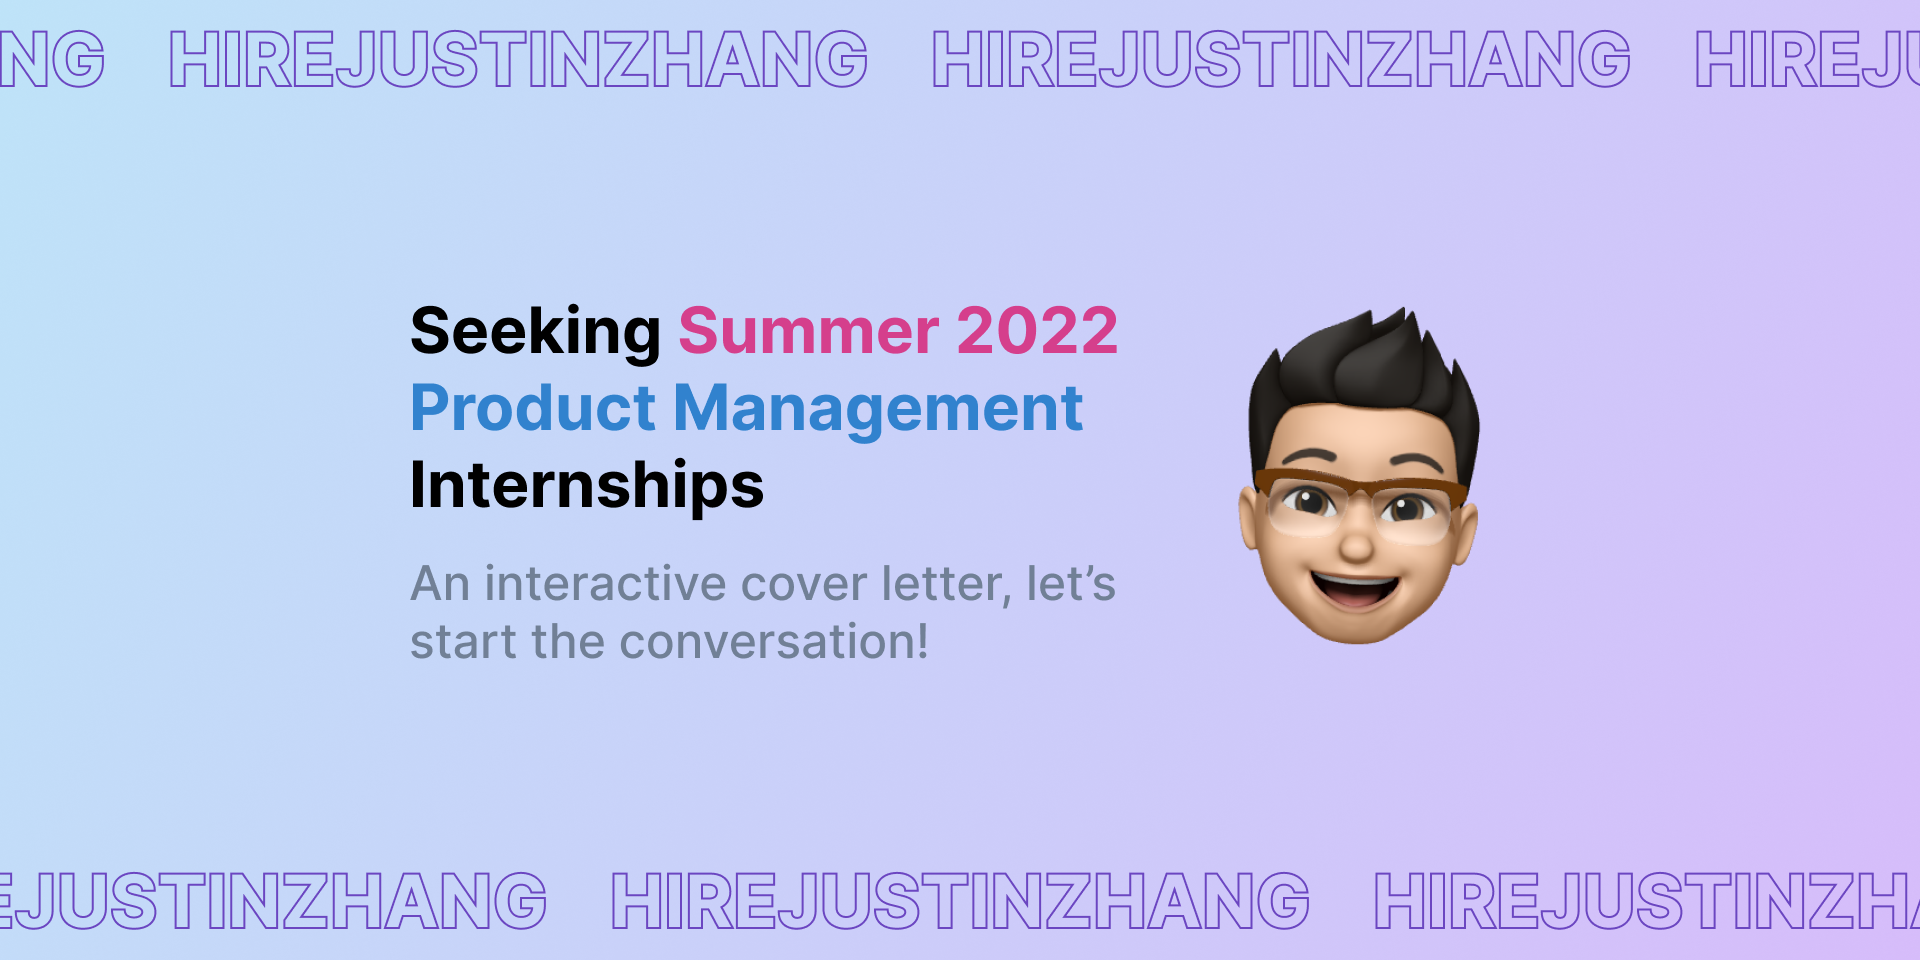
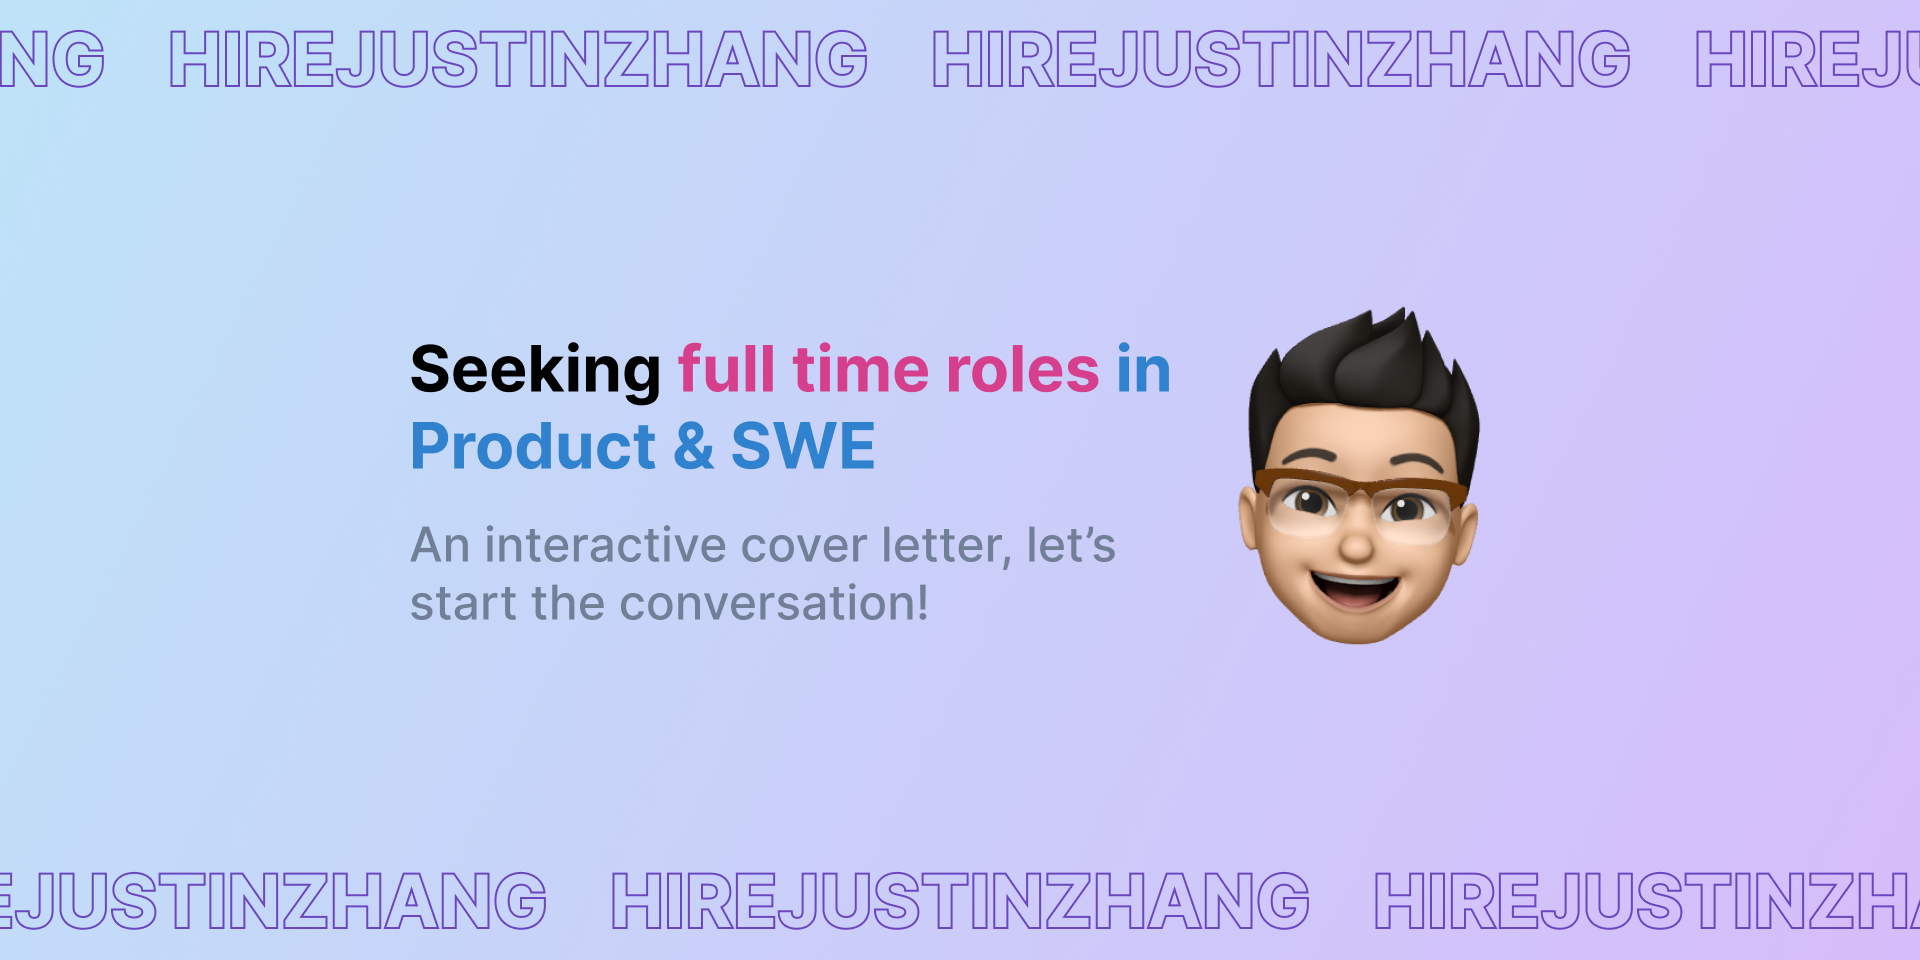
Updating SEO

Changed region(s): [[0.1875, 0.3125, 0.625, 0.6875]]

diff --git a/src/pages/_document.tsx b/src/pages/_document.tsx
@@ -53,25 +53,25 @@ class MyDocument extends Document {
             content="An interactive cover letter to highlight who I am beyond the resume. Currently a Computer Science and Business student seeking summer 2022 Product Management internships."
           />
 
-          <meta itemProp="name" content="Hire Justin Zhang The Intern" />
+          <meta itemProp="name" content="Hire Justin Zhang" />
           <meta
             itemProp="description"
-            content="I'm a 4th year Computer Science and Business student seeking Product Management internships for Summer 2022"
+            content="I'm a 5th year Computer Science and Business student seeking full time roles in Product & Software Engineering"
           />
           <meta itemProp="image" content={PREVIEW_IMAGE} />
 
           <meta name="twitter:card" content="summary_large_image" />
           <meta name="twitter:site" content="@justinnzhang" />
-          <meta name="twitter:title" content="Hire Justin Zhang The Intern" />
+          <meta name="twitter:title" content="Hire Justin Zhang" />
           <meta
             name="twitter:description"
-            content="An interactive cover letter to highlight who I am beyond the resume. Currently a Computer Science and Business student seeking summer 2022 Product Management internships."
+            content="An interactive cover letter to highlight who I am beyond the resume. Currently a Computer Science and Business student seeking full time roles in Product & Software Engineering."
           />
           <meta name="twitter:creator" content="@justinnzhang" />
           <meta name="twitter:image" content={PREVIEW_IMAGE} />
           <meta
             name="twitter:image:alt"
-            content="Blue to purple gradient with the text: Seeking Summer 2022 Product Management Internships, An interactive cover letter, let’s start the conversation! Followed by a memoji representation of Justin Zhang's face"
+            content="Blue to purple gradient with the text: Seeking full time roles in Product & Software Engineering, An interactive cover letter, let’s start the conversation! Followed by a memoji representation of Justin Zhang's face"
           />
 
           <meta property="og:title" content="Hire Justin Zhang The Intern" />
@@ -85,7 +85,7 @@ class MyDocument extends Document {
           />
           <meta
             property="og:description"
-            content="An interactive cover letter to highlight who I am beyond the resume. Currently a Computer Science and Business student seeking summer 2022 Product Management internships."
+            content="An interactive cover letter to highlight who I am beyond the resume. Currently a Computer Science and Business student seeking full time roles in Product & Software Engineering."
           />
           <meta property="og:site_name" content="Hire Justin Zhang" />
         </Head>
